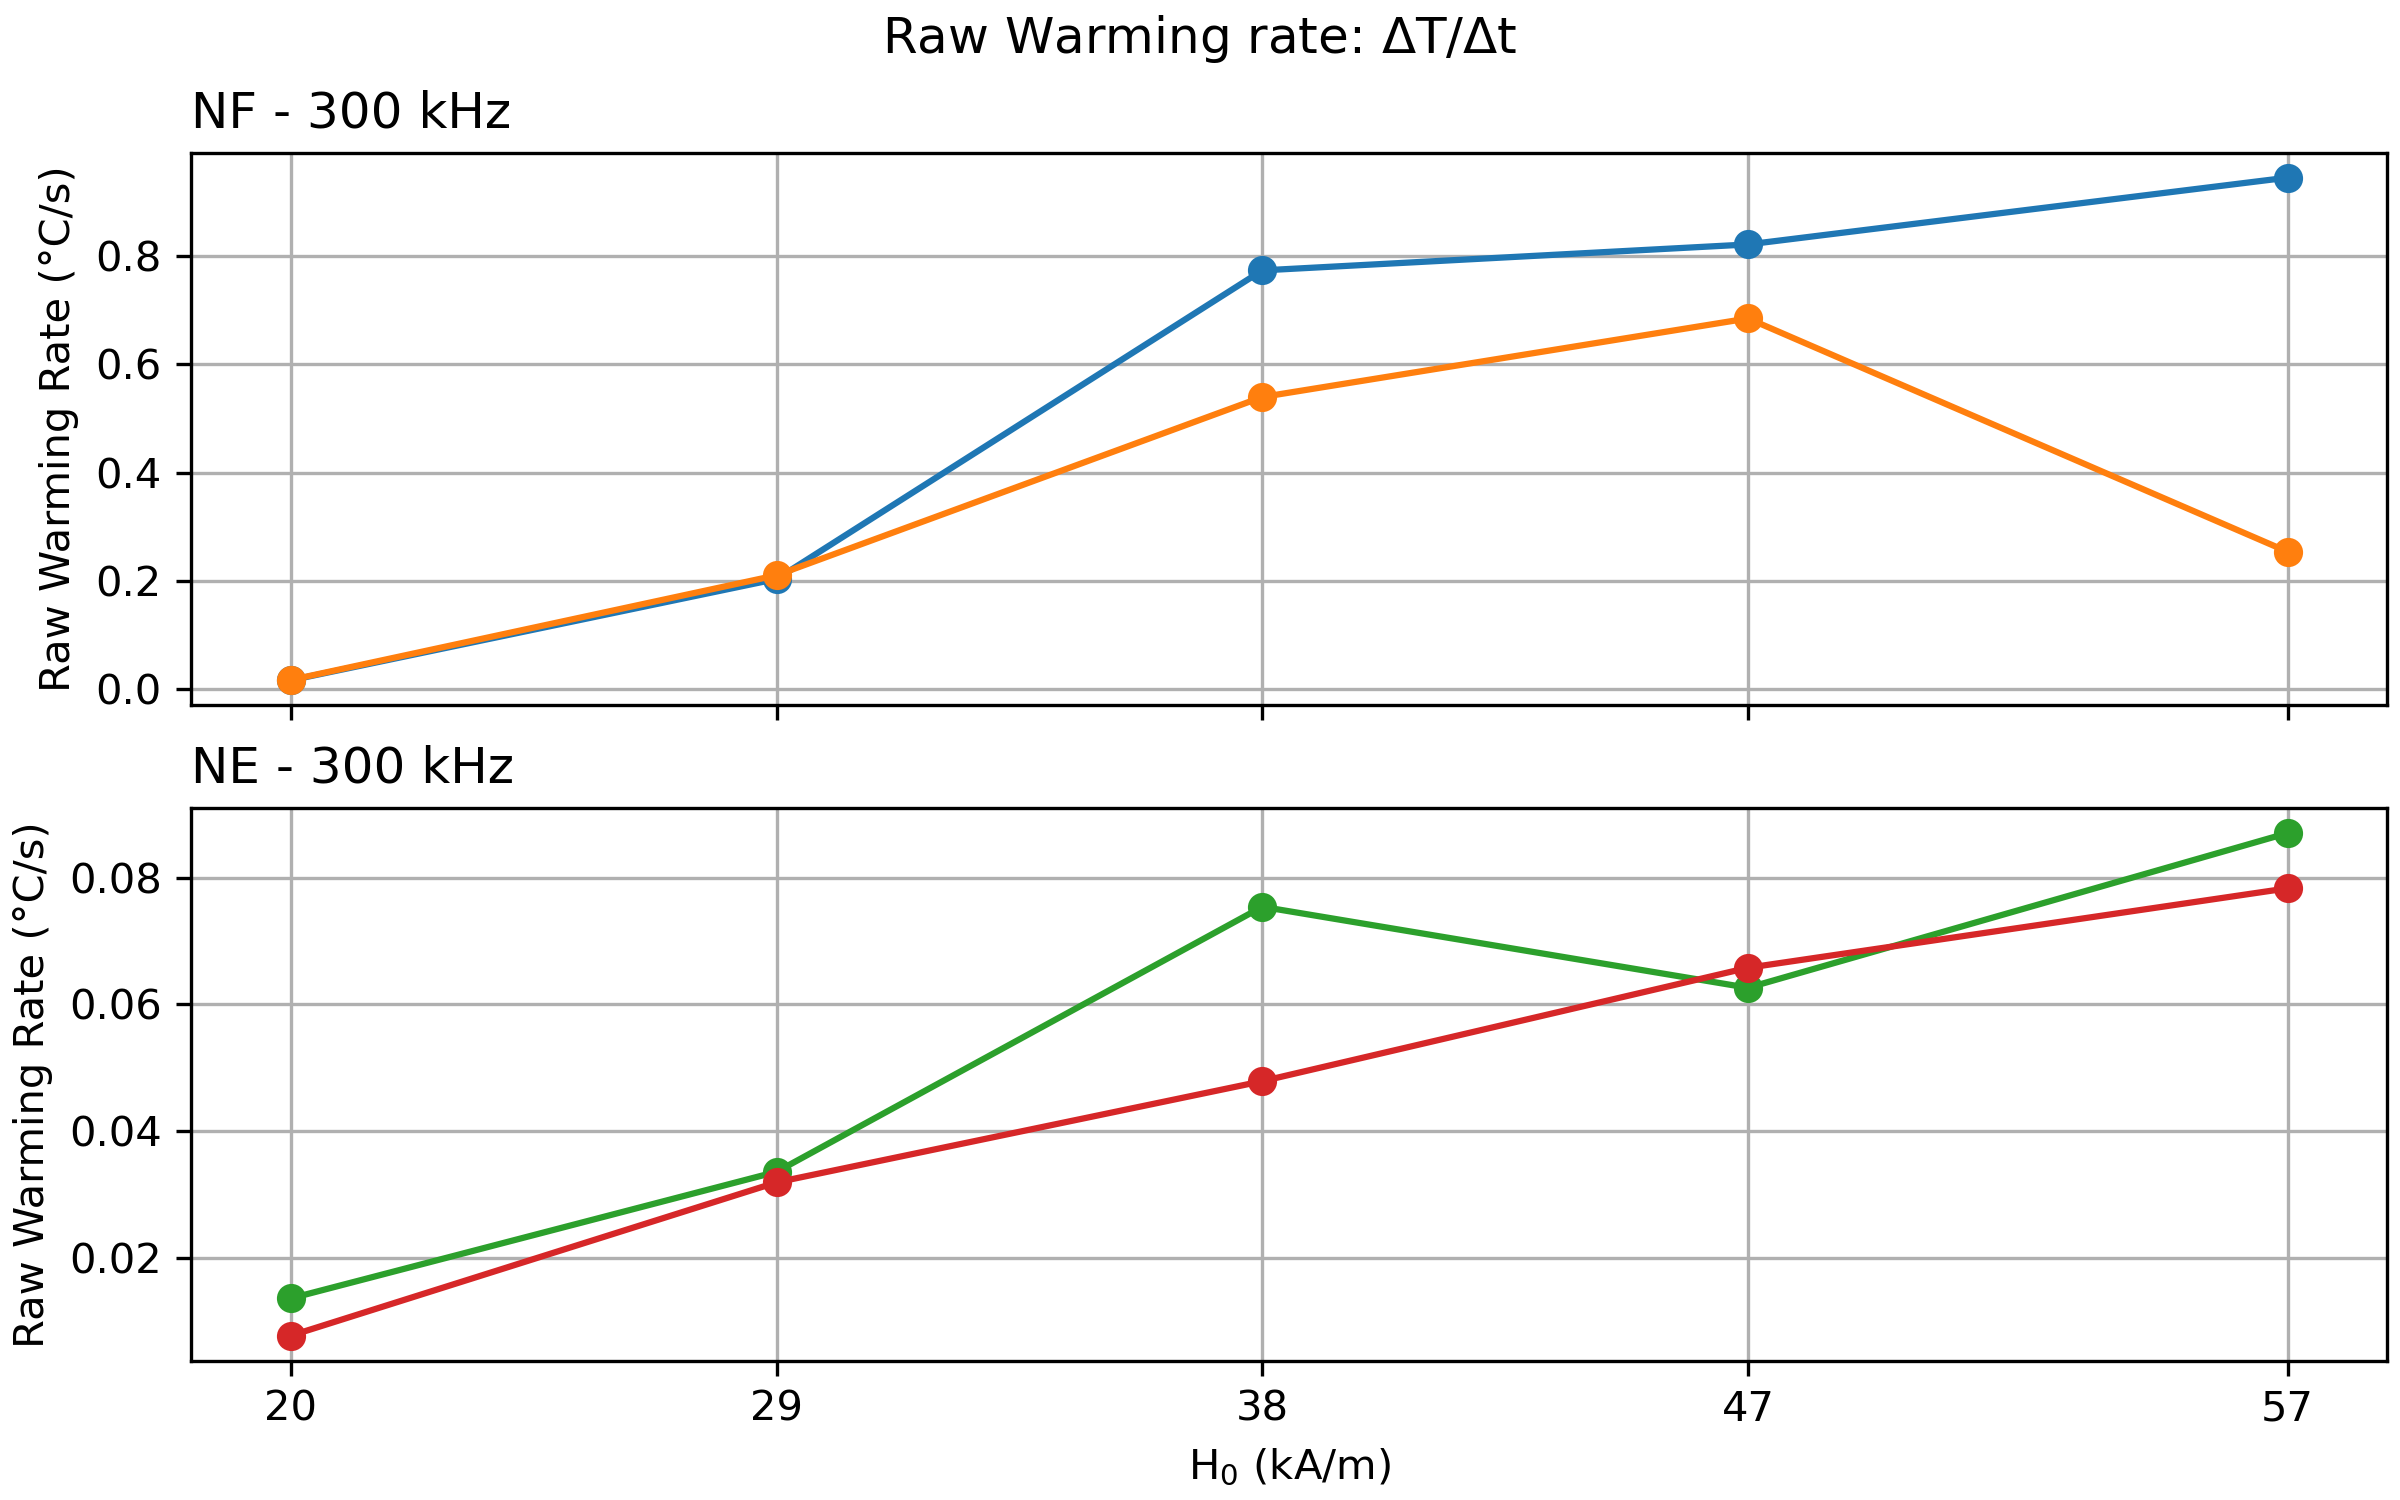
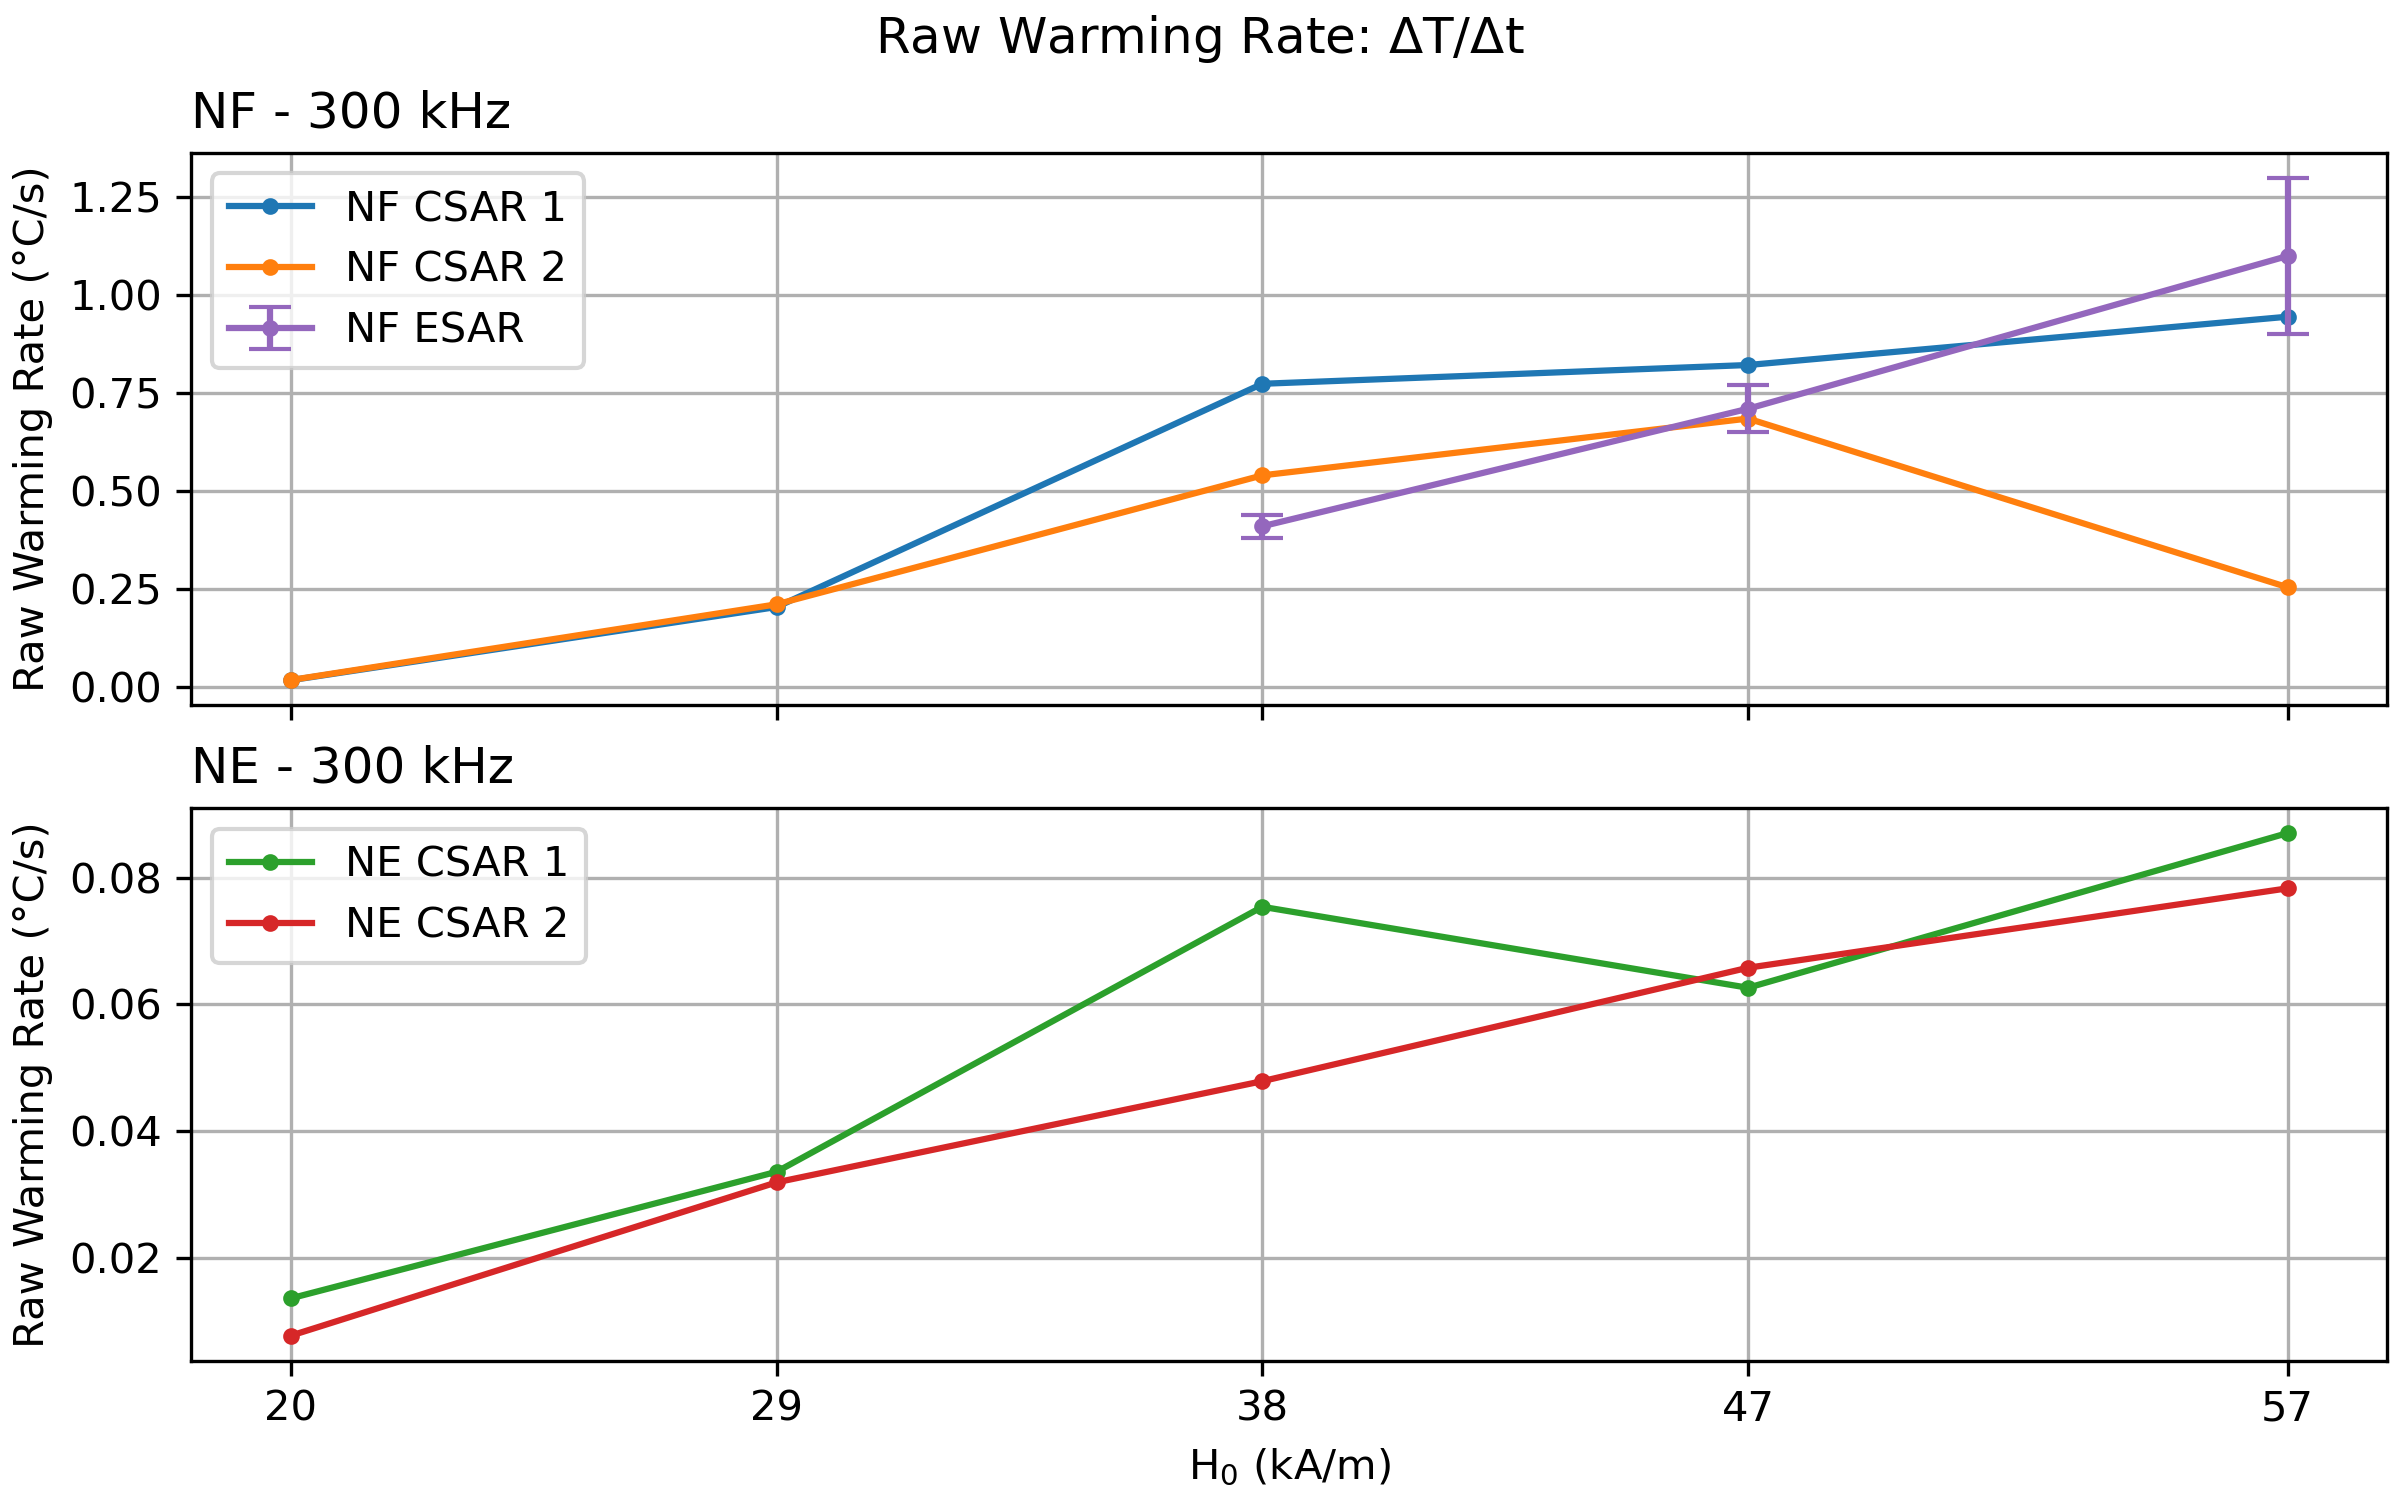
tod OK

diff --git a/CSAR.py b/CSAR.py
@@ -398,22 +398,26 @@ plt.suptitle('NF@citrico & NE@citrico',fontsize=16)
 plt.savefig('NF&NE_T_vs_t_comparativa_all.png', dpi=300)
 #%% Comparativas Warming Rates
 H0=np.array([57,47,38,29,20])
-fig2,(ax,ax2) = plt.subplots(2,1,figsize=(8,5),sharex=True,constrained_layout=True)
+H0_2=np.array([57,47,38])
+WR_esar = np.array([ufloat(1.1,0.2),ufloat(0.71,0.06),ufloat(0.41,0.03)])
 
-ax.plot(H0,rates_NF,'o-')
-ax.plot(H0,rates_NF_2,'o-')
+fig2,(ax,ax2)= plt.subplots(2,1,figsize=(8,5),sharex=True,constrained_layout=True)
 
-ax2.plot(H0,rates_NE,'o-',c='C2')
-ax2.plot(H0,rates_NE_2,'o-',c='C3')
+ax.plot(H0,rates_NF,'.-',label='NF CSAR 1')
+ax.plot(H0,rates_NF_2,'.-',label='NF CSAR 2')
+ax.errorbar(x=H0_2,y = np.array([a.n for a in WR_esar]),yerr = np.array([a.s for a in WR_esar]),fmt='.-', capsize=5,c='C4',label='NF ESAR')
+ax2.plot(H0,rates_NE,'.-',c='C2',label='NE CSAR 1')
+ax2.plot(H0,rates_NE_2,'.-',c='C3',label='NE CSAR 2')
 
 for a in ax,ax2:
     a.grid()
     a.set_ylabel('Raw Warming Rate (°C/s)')
+    a.legend()
 ax.set_title('NF - 300 kHz',loc='left')
 ax2.set_title('NE - 300 kHz',loc='left')
 ax2.set_xticks(H0)
 ax2.set_xlabel('H$_0$ (kA/m)')
-plt.suptitle(r'Raw Warming rate: $\Delta$T/$\Delta$t')
+plt.suptitle(r'Raw Warming Rate: $\Delta$T/$\Delta$t')
 plt.savefig('Raw_Warming_Rate.png', dpi=300)
 plt.show()
 #%%%  CSAR vs t NF ========================== 
